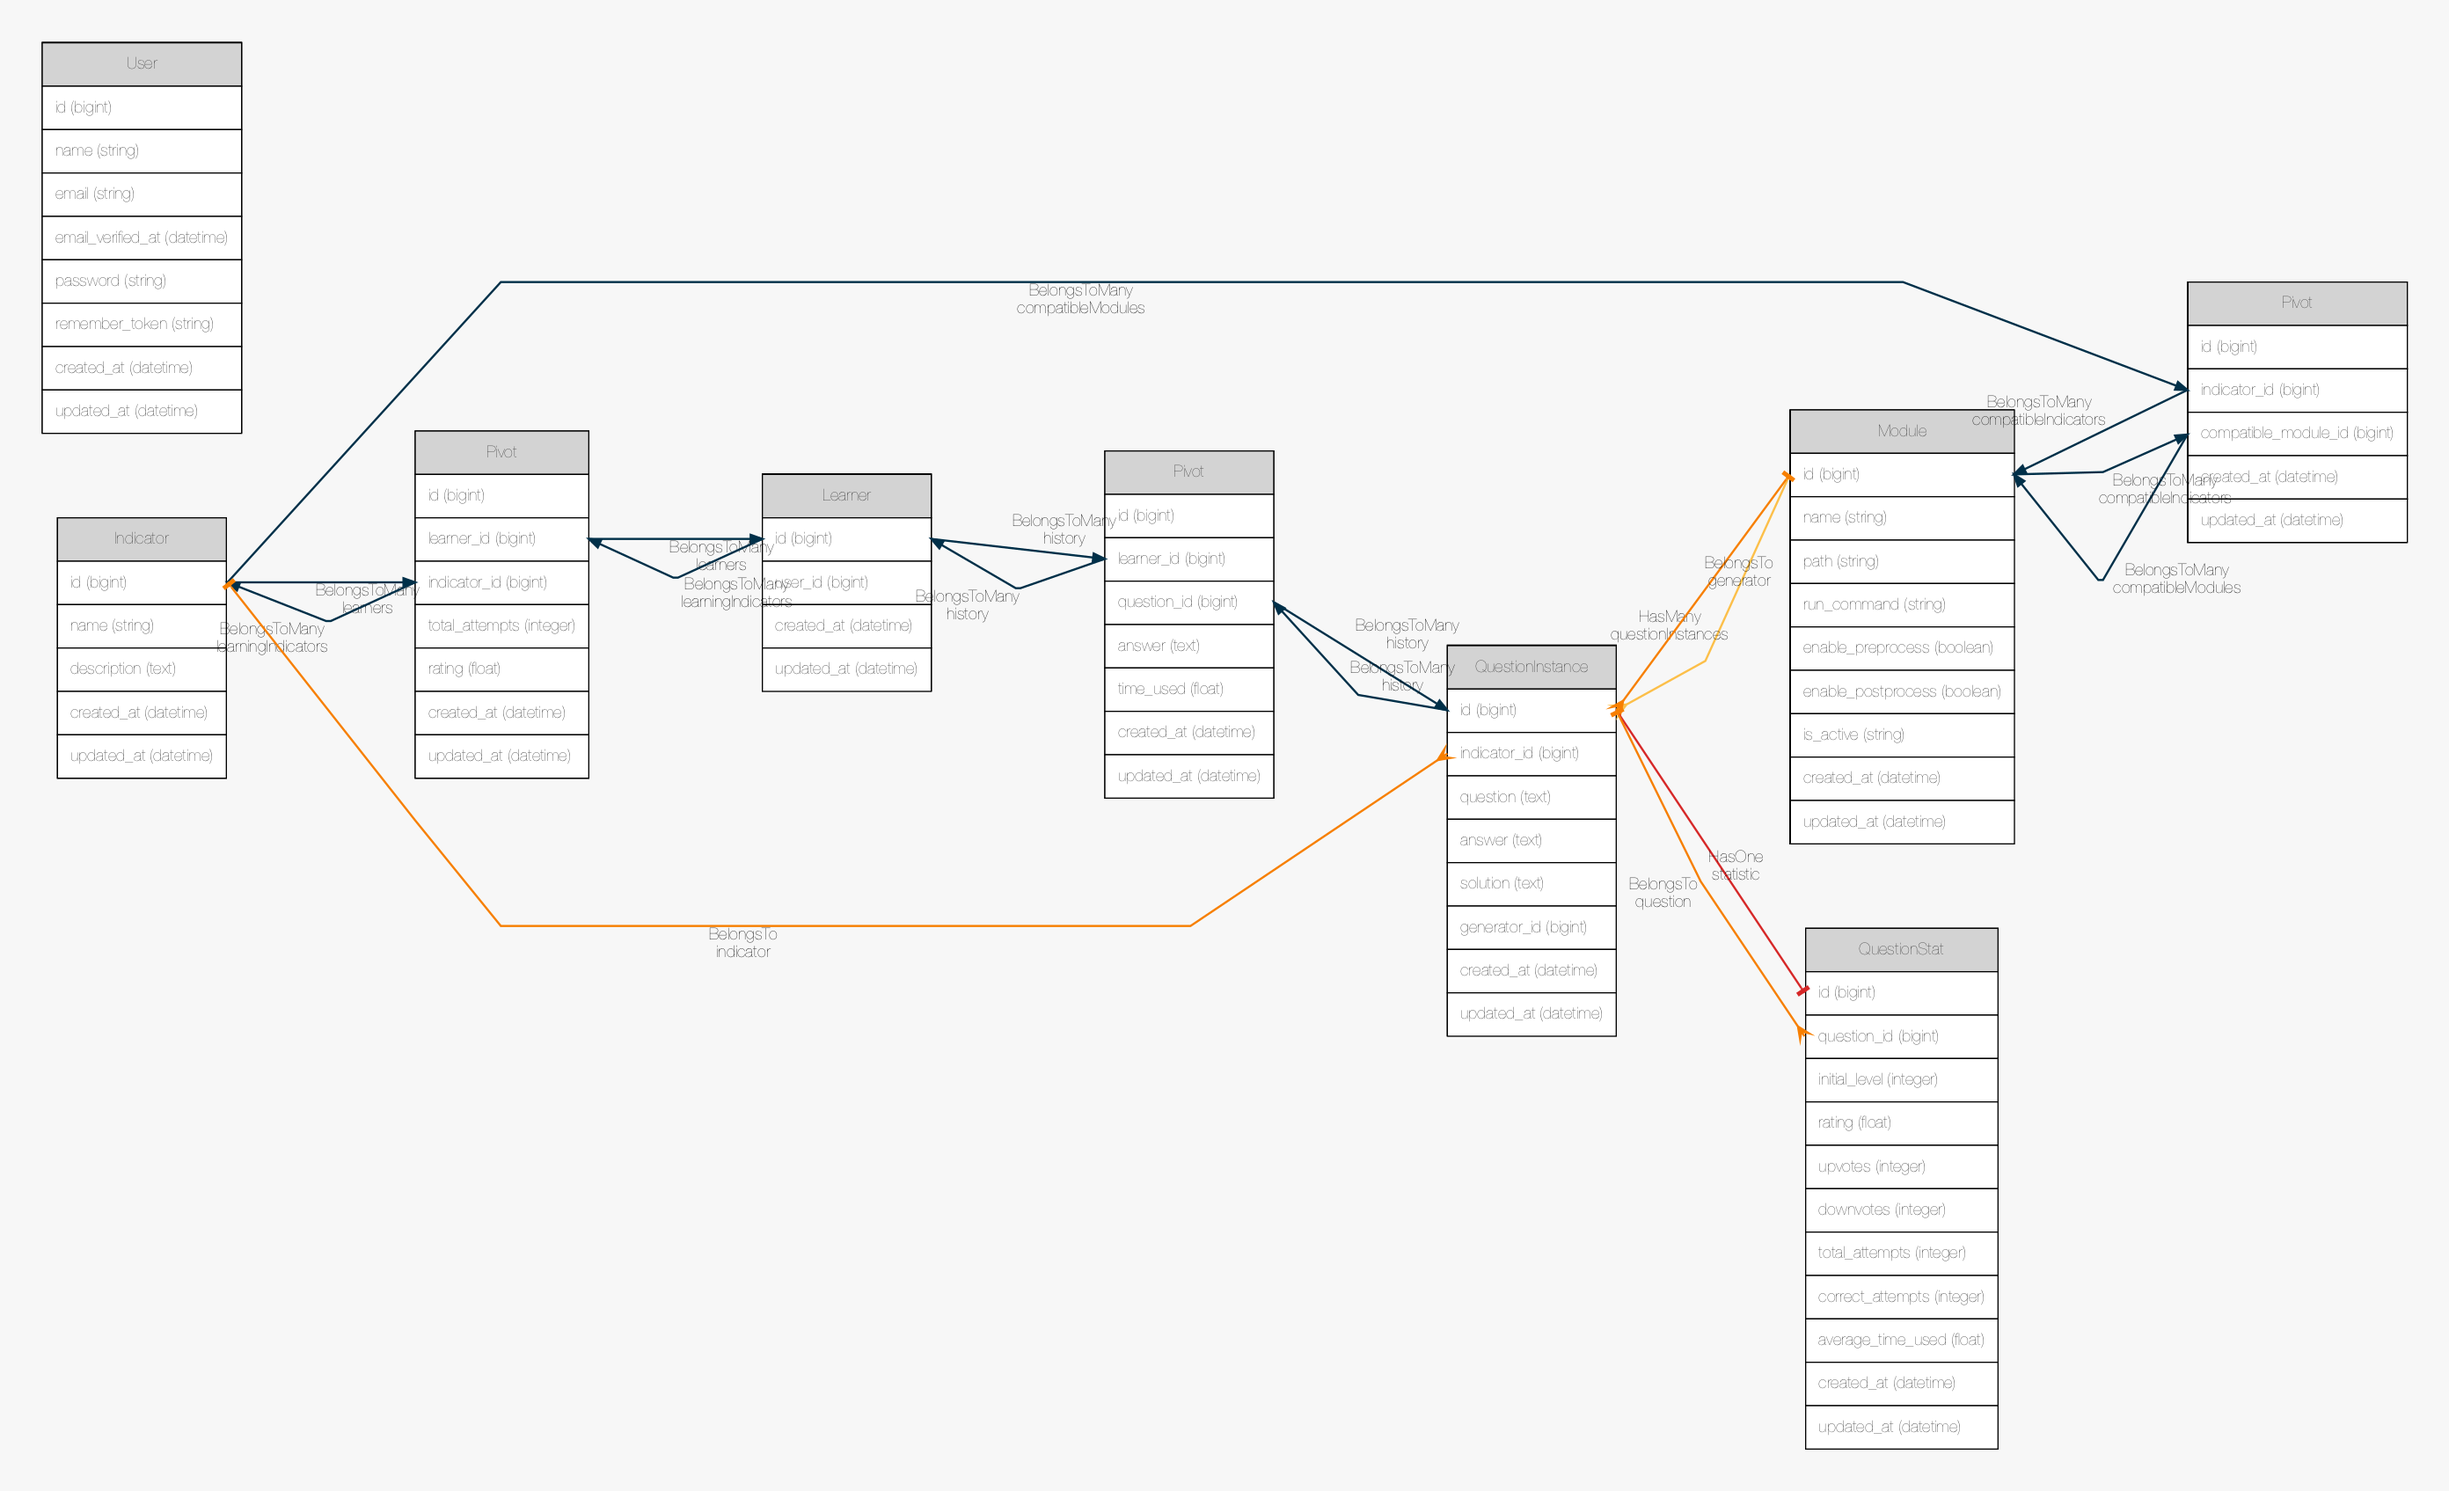
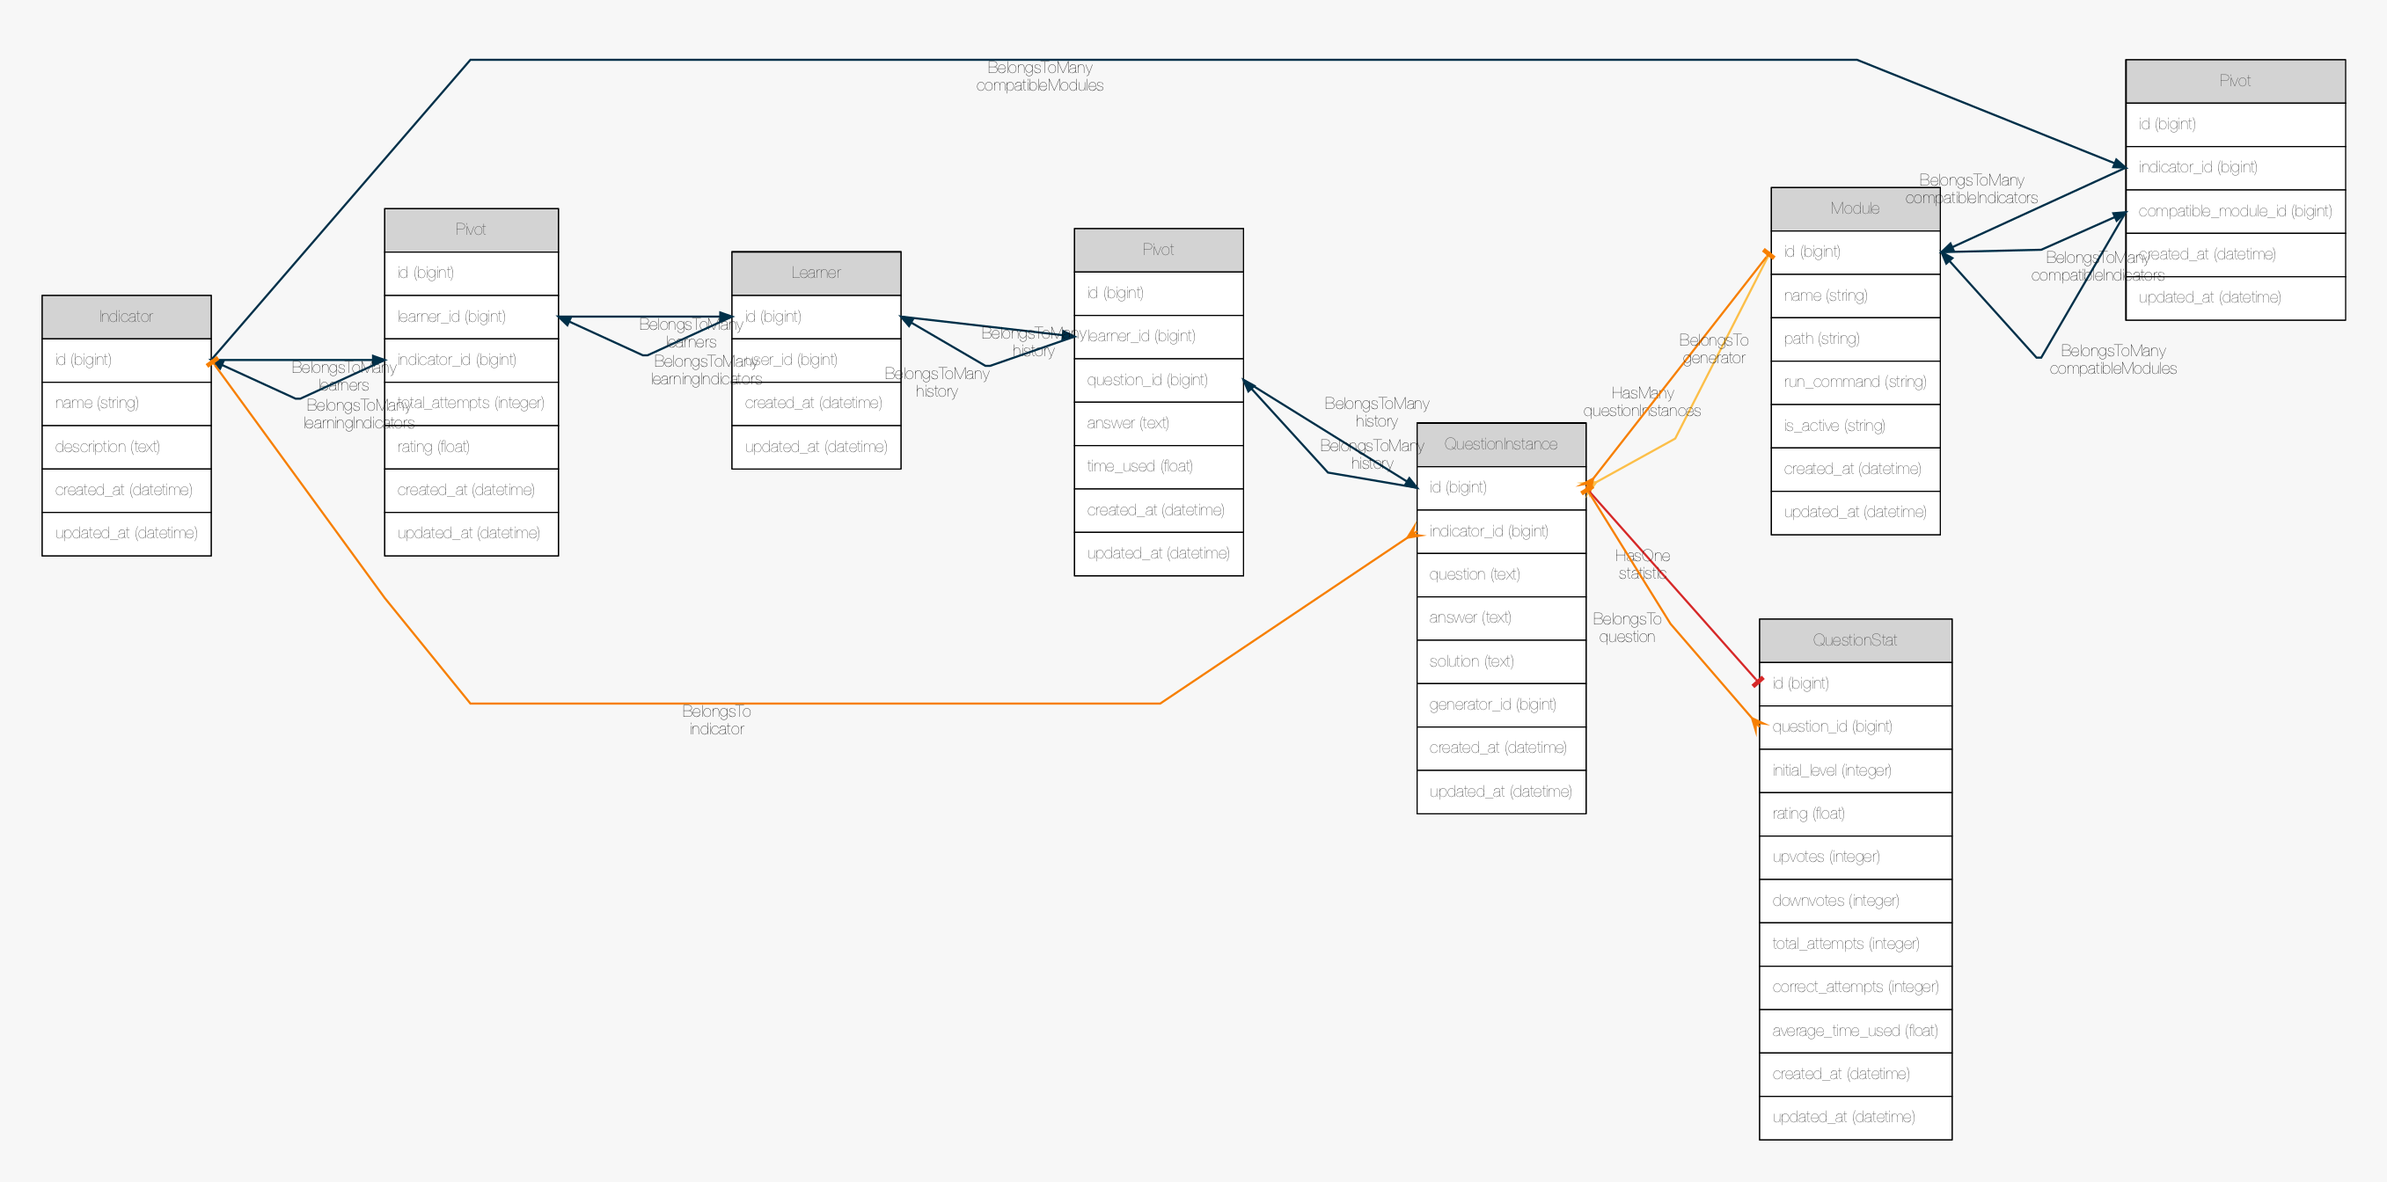
fix module logic

diff --git a/app/Modules/ModuleManager.php b/app/Modules/ModuleManager.php
@@ -14,56 +14,6 @@ class ModuleManager
         $postprocessData = null;
 
         $partName = $part->name;
-        $enablePreprocess = filter_var($part->enable_preprocess, FILTER_VALIDATE_BOOLEAN);
-        $enablePostprocess = filter_var($part->enable_postprocess, FILTER_VALIDATE_BOOLEAN);
-
-        if($enablePreprocess){
-            switch($partName){
-                case 'selector':{
-                    $preprocessData = Preprocessor::selector($parameters[0],$parameters[1],$parameters[2]);
-                    break;
-                }
-                case 'generator':{
-                    $preprocessData = Preprocessor::generator($parameters[0],$parameters[1]);
-                    break;
-                }
-                case 'question_display':{
-                    $preprocessData = Preprocessor::questionDisplay($parameters[0]);
-                    break;
-                }
-                case 'checker':{
-                    $preprocessData = Preprocessor::answerChecker($parameters[0],$parameters[1]);
-                    break;
-                }
-                case 'updater':{
-                    $preprocessData = Preprocessor::updater($parameters[0],$parameters[1],$parameters[2]);
-                    break;
-                }
-                case 'solution_display':{
-                    $preprocessData = Preprocessor::solutionDisplay($parameters[0]);
-                    break;
-                }
-                case 'distance_calculator':{
-                    $preprocessData = Preprocessor::distanceCalculator($parameters[0],$parameters[1]);
-                    break;
-                }
-                case 'generator_evaluator':{
-                    $preprocessData = Preprocessor::generatorEvaluator($parameters[0],$parameters[1]);
-                    break;
-                }
-            }
-        }
-
-        if(!isset($part->path) || !file_exists($part->path)){
-            //no script
-            return $preprocessData;
-        }
-
-        //run script
-        if($preprocessData){
-            $data = $preprocessData;
-        }
-        else $data = $parameters;
 
         $temporaryDirectory = (new TemporaryDirectory())->create();
         $filename = $temporaryDirectory->path('input.dat');
@@ -71,7 +21,7 @@ class ModuleManager
         $script_type = $part->run_command;
 
         $processArray = [$script_type, $part->path, $filename];
-        $jsonData = json_encode($data,JSON_FORCE_OBJECT);
+        $jsonData = json_encode($parameters,JSON_FORCE_OBJECT);
         file_put_contents($filename,$jsonData);
         
         $process = new Process($processArray);
@@ -84,42 +34,6 @@ class ModuleManager
         $processedOutput = json_decode($output,true) ? json_decode($output,true) : $output;
         $temporaryDirectory->delete();
 
-        if($enablePostprocess){
-            switch($partName){
-                case 'selector':{
-                    $postprocessData = Postprocessor::selector($processedOutput);
-                    break;
-                }
-                case 'generator':{
-                    $postprocessData = Postprocessor::generator($processedOutput);
-                    break;
-                }
-                case 'question_display':{
-                    $postprocessData = Postprocessor::questionDisplay($processedOutput);
-                    break;
-                }
-                case 'checker':{
-                    $postprocessData = Postprocessor::answerChecker($processedOutput);
-                    break;
-                }
-                case 'updater':{
-                    $postprocessData = Postprocessor::updater($processedOutput);
-                    break;
-                }
-                case 'solution_display':{
-                    $postprocessData = Postprocessor::solutionDisplay($processedOutput);
-                    break;
-                }
-                case 'distance_calculator':{
-                    $postprocessData = Postprocessor::distanceCalculator($processedOutput);
-                    break;
-                }
-                case 'generator_evaluator':{
-                    $postprocessData = Postprocessor::generatorEvaluator($processedOutput);
-                    break;
-                }
-            }
-        }
-        return $enablePostprocess ? $postprocessData : $processedOutput;
+        return $processedOutput;
     }
 }

diff --git a/app/Modules/Scripts/generator1.py b/app/Modules/Scripts/generator1.py
@@ -14,6 +14,9 @@ try:
 except IndexError:
     targetLevel = 2 #default slightly easy
 
+if targetLevel is None:
+    targetLevel = 2
+
 namelist = ['กานพลู', 'ก้ามปู', 'กาละแม', 'กอหญ้า', 'กองทัพ', 'กุ้งนาง', 'กะทิ', 'กำไล', 'ขวัญข้าว', 'ข้าวหอม', 'ข้าวปั้น', 'ขนมผิง', 'ขุนพล', 'ขลุ่ยผิว', 'คิมหันต์', 'จอมขวัญ', 'จำปูน', 'จันทร์เจ้า', 'จันทร์กะพ้อ', 'ใจดี', 'จริงใจ', 'เจ้าขุน', 'เจ้านาย', 'ช้องนาง', 'ช่อม่วง', 'ชะเอม', 'ชบาไพร', 'ซองพลู', 'ดั่งใจ', 'ดีใจ', 'ต้นน้ำ', 'ต้นกล้า', 'ต้นหลิว', 'ต้นแต้ว', 'แตงไทย', 'เตยหอม', 'ตะวัน', 'ทอฝัน', 'ทองปราย', 'ทองภู', 'ทานธรรม', 'แทนไท', 'เทียนหอม', 'ทะนาน', 'ธรรมะ', 'นะดี', 'นะโม', 'น้ำปิง', 'น้ำอบ',
             'น้ำเหนือ', 'นิ้ม', 'แน่งน้อย', 'ใบข้าว', 'ใบตอง', 'ใบเตย', 'ใบบัว', 'ใบบุญ', 'บัวบูชา', 'ปราง', 'ปรายฟ้า', 'ปั้นหยา', 'ปั้นจั่น', 'เป็นแดน', 'แป้งร่ำ', 'แป้งหมี่', 'ปิ่นมุก', 'ปอแก้ว', 'เพียงออ', 'พุทโธ', 'พะแพง', 'แพรวา', 'พอใจ', 'พวงชมพู', 'ฟ้าใส', 'ภูผา', 'มะลิ', 'มันตา', 'ไม้ม้วน', 'เรไร', 'ลลิต', 'ลังลอง', 'ลัญจ์', 'ส้มจี๊ด', 'ส้มฉุน', 'ส้มซ่า', 'ส้มป่อย', 'ส้มลิ้ม', 'สิตางศุ์', 'สุขใจ', 'โสน', 'ไหมฝัน', 'สไบงาม', 'เอื้องเหนือ', 'ไออุ่น', 'อุ่นใจ', 'อุ่นเรือน', 'อันนา', 'อบเชย', 'อุ้มบุญ', 'เอื้อนเอ่ย']
 fruitlist = [
@@ -164,7 +167,7 @@ for idx, word in enumerate(prob):
 
 data = {}
 data['question'] = json.dumps(blocks)
-data['answer'] = ans
+data['answer'] = json.dumps(ans)
 data['solution'] = json.dumps({"0":str(ex[0])+str(show_ex)+str(ex[2])+'='+str(ans)})
 data['level'] = targetLevel
 

diff --git a/app/Helpers/ReportGenerator.php b/app/Helpers/ReportGenerator.php
@@ -14,7 +14,7 @@ use App\Models\Module;
 use Spatie\TemporaryDirectory\TemporaryDirectory;
 
 class ReportGenerator{
-    public static function evaluateGenerator($generatorId, $numberOfQuestions = 2000, $threshold = 0.0, $preferredLevel = null, $indicatorId = null){
+    public static function evaluateGenerator($generatorId, $numberOfQuestions = 2000, $threshold = 0.5, $preferredLevel = null, $indicatorId = null){
         $generator = Module::findOrFail($generatorId);
         if($generator->name != 'generator'){
             return "a selected module is not a generator";
@@ -88,8 +88,8 @@ class ReportGenerator{
         $reportName = "generatorReport".time().".txt";
         $report = fopen(__DIR__."/Reports/GeneratorReport/".$reportName, 'a');
         fwrite($report, "Report Date:\t".date("Y-m-d H:i:s")."\n");
-        fwrite($report, "Indicator ID:\t".$indicator->id."\n");  
         fwrite($report, "Generator ID:\t".$generator->id."\n");  
+        fwrite($report, "Indicator ID:\t".$indicator->id."\n");  
         if($preferredLevel) fwrite($report, "Question Level:\t".$preferredLevel."\n");  
         fwrite($report, "Threshold:\t".$threshold."\n");  
         fwrite($report, "Total Generated Questions:\t".$numberOfQuestions."\n");
@@ -97,13 +97,13 @@ class ReportGenerator{
         fwrite($report, "Total Clusters:\t".$output->total_clusters."\n");
         fwrite($report, "Average Questions Per Cluster:\t".$output->average_question_per_clusters."\tStandard Deviation:\t".$output->std."\n");
         fwrite($report, "Total Questions in Largest Cluster:\t".$output->questions_in_largest_cluster."\n");
-        fwrite($report, "Sample Question Instance in Largest Cluster:\t".implode(", ",$ids)."\n");
+        fwrite($report, "Sample Question Instances' ID in Largest Cluster:\t".implode(", ",$ids)."\n");
         fclose($report);
 
         return $output;
     }
 
-    public static function systemReport(){
+    public static function evaluateSystem(){
         $reportName = "systemReport".time().".txt";
         $report = fopen(__DIR__."/Reports/SystemReport/".$reportName, 'a');
 

diff --git a/app/Modules/Scripts/distanceCalculator.py b/app/Modules/Scripts/distanceCalculator.py
@@ -1,0 +1,36 @@
+# -*- coding: utf-8 -*-
+
+import numpy as np
+import random
+import json
+import sys
+
+f = open(sys.argv[1], "r")
+argv = json.loads(f.read())
+question1 = argv['0']
+question2 = argv['1']
+
+json1 = json.loads(question1)
+json2 = json.loads(question2)
+
+def processJSON(jsonData):
+    arr = []
+    for item in jsonData[1:]:
+        if(item['type'] == 'number'):
+            arr.append(item['content'])
+        elif(item['type'] == 'other'):
+            continue
+        else:
+            arr.append(item['type'])
+    return arr;
+
+def jaccardDistance(list1, list2):
+    intersection = len(list(set(list1).intersection(list2)))
+    union = (len(set(list1)) + len(set(list2))) - intersection
+    return 1-(float(intersection) / union)
+
+processed1 = processJSON(json1)
+processed2 = processJSON(json2)
+
+
+print(jaccardDistance(processed1,processed2))

diff --git a/database/seeders/ModuleSeeder.php b/database/seeders/ModuleSeeder.php
@@ -5,7 +5,7 @@ namespace Database\Seeders;
 use Illuminate\Database\Seeder;
 use App\Models\Module;
 
-class ModulesSeeder extends Seeder
+class ModuleSeeder extends Seeder
 {
     /**
      * Run the database seeds.
@@ -52,7 +52,8 @@ class ModulesSeeder extends Seeder
 
         $distanceCalculator = new Module();
         $distanceCalculator->name = 'distance_calculator';
-        $distanceCalculator->enable_preprocess = true; //run preprocess without a script
+        $solutionDisplay->path = '/Users/neufii/Documents/M.Eng/IIAFramework/app/Modules/Scripts/distanceCalculator.py';
+        $distanceCalculator->run_command = 'python3';
         $distanceCalculator->save();
         $distanceCalculator->compatibleIndicators()->sync([1,2]);
     }

diff --git a/database/migrations/2021_08_10_052645_create_modules_table.php b/database/migrations/2021_08_10_052645_create_modules_table.php
@@ -16,10 +16,8 @@ class CreateModulesTable extends Migration
         Schema::create('modules', function (Blueprint $table) {
             $table->id();
             $table->string('name');
-            $table->string('path')->nullable();
-            $table->string('run_command')->nullable();
-            $table->boolean('enable_preprocess')->default(false);
-            $table->boolean('enable_postprocess')->default(false);
+            $table->string('path');
+            $table->string('run_command');
             $table->string('is_active')->default(true);
             $table->timestamps();
         });

diff --git a/app/Models/QuestionInstance.php b/app/Models/QuestionInstance.php
@@ -97,6 +97,8 @@ class QuestionInstance extends Model
             $targetLevel = $customInstance['targetLevel'] ? $customInstance['targetLevel'] : null;
         }
         else{
+            $selectedInstance = null;
+
             //no selector or nothing return from selector, use default selecting algorithm
             if(!$includeHistory){
                 $history = $learner->history()->where('indicator_id',$indicator->id)->pluck('question_id');

diff --git a/app/Modules/Scripts/generator2.py b/app/Modules/Scripts/generator2.py
@@ -192,7 +192,7 @@ for idx, word in enumerate(prob):
 
 data = {}
 data['question'] = json.dumps(blocks)
-data['answer'] = ans
+data['answer'] = json.dumps(ans)
 data['solution'] = json.dumps({"0":str(ex[0])+str(show_ex)+str(ex[2])+'='+str(ans)})
 data['level'] = targetLevel
 
